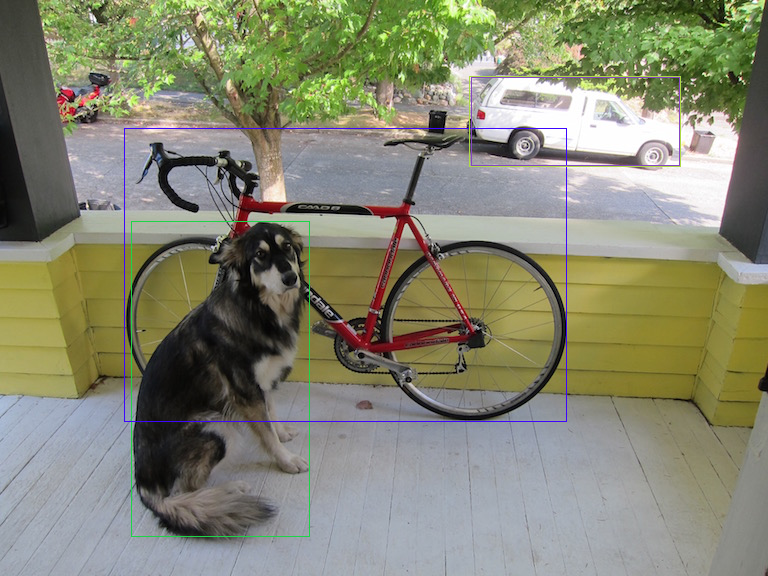
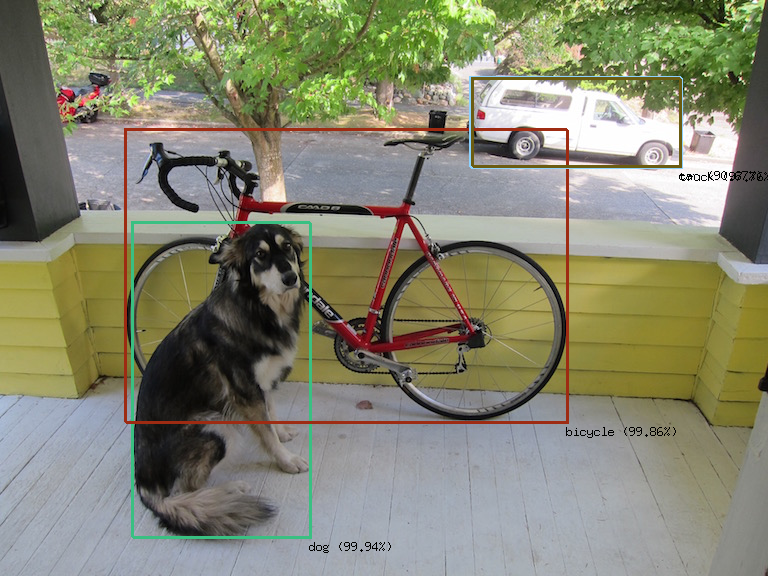
Added labels and certainties to object detection example

Changed region(s): [[0.1562, 0.125, 1.0, 0.9375], [0.4062, 0.9375, 0.5, 0.9688]]

diff --git a/examples/object_detection/main.go b/examples/object_detection/main.go
@@ -2,6 +2,10 @@ package main
 
 import (
 	"fmt"
+	"golang.org/x/image/font"
+	"golang.org/x/image/font/basicfont"
+	"golang.org/x/image/math/fixed"
+	"image"
 	"image/color"
 	"image/draw"
 	"image/png"
@@ -48,6 +52,11 @@ func main() {
 	for _, obj := range objects {
 		col := color.RGBA{uint8(rand.Intn(266)), uint8(rand.Intn(266)), uint8(rand.Intn(266)), 255}
 		Rect(obj.Box.XMin, obj.Box.YMin, obj.Box.XMax, obj.Box.YMax, img, col)
+		// Thicken up the lines a bit
+		Rect(obj.Box.XMin+1, obj.Box.YMin+1, obj.Box.XMax+1, obj.Box.YMax+1, img, col)
+		Rect(obj.Box.XMin+2, obj.Box.YMin+2, obj.Box.XMax+2, obj.Box.YMax+2, img, col)
+
+		AddLabel(img, obj.Box.XMax, obj.Box.YMax+15, fmt.Sprintf("%s (%.2f%%)", obj.Label, obj.Score*100.0))
 	}
 
 	outf, err := os.Create(outputImg)
@@ -138,4 +147,17 @@ func Rect(x1, y1, x2, y2 int, img draw.Image, col color.Color) {
 	HLine(x1, y2, x2, img, col)
 	VLine(x1, y1, y2, img, col)
 	VLine(x2, y1, y2, img, col)
+}
+
+func AddLabel(img draw.Image, x, y int, label string) {
+	col := color.RGBA{0, 0, 0, 255}
+	point := fixed.Point26_6{X: fixed.Int26_6(x * 64), Y:fixed.Int26_6(y * 64)}
+
+	d := &font.Drawer{
+		Dst:  img,
+		Src:  image.NewUniform(col),
+		Face: basicfont.Face7x13,
+		Dot:  point,
+	}
+	d.DrawString(label)
 }
